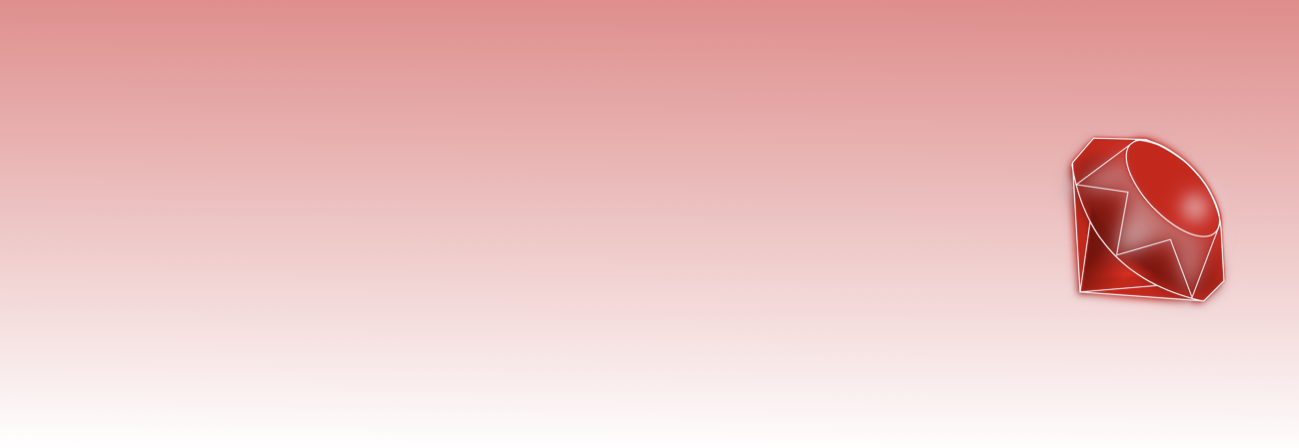
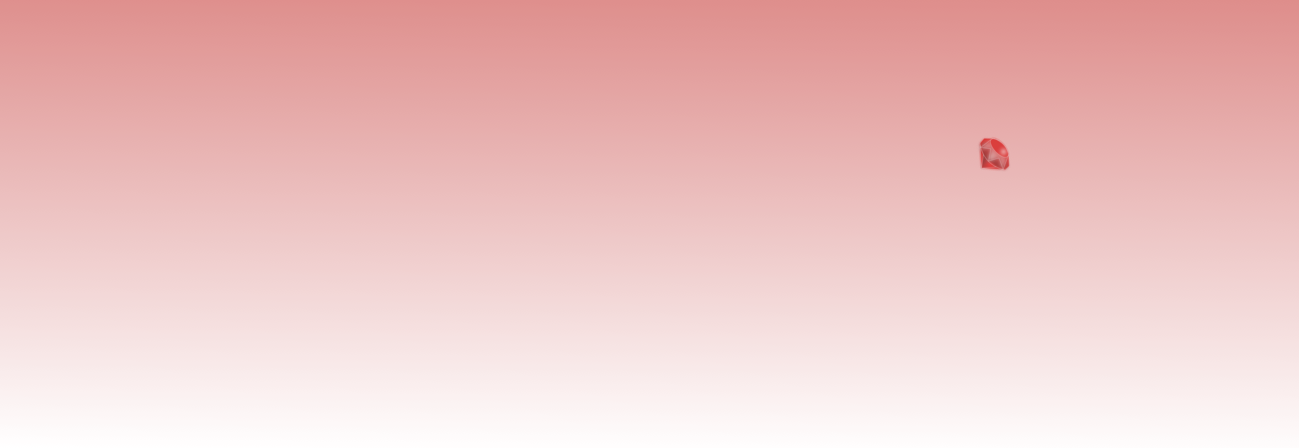
updated about me & new header

Changed region(s): [[0.739, 0.2812, 0.9546, 0.6875]]

diff --git a/about.html b/about.html
@@ -4,4 +4,4 @@ title: About
 header-img: "img/new-about.png"
 ---
 
-<p>Nocturnal learner</p>
+<p>DC-based software developer & nocturnal lifelong learner</p>
